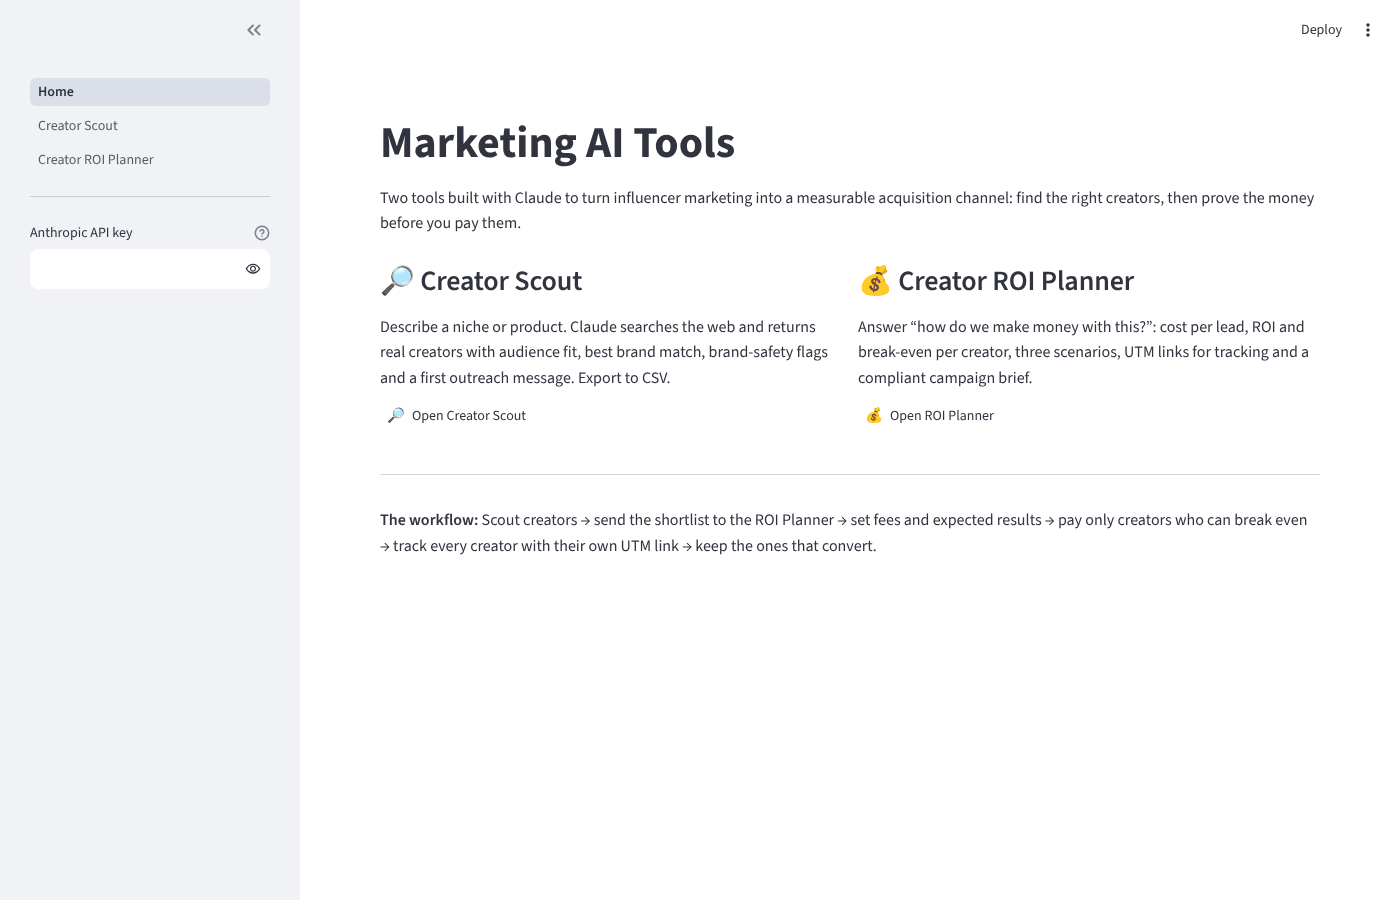
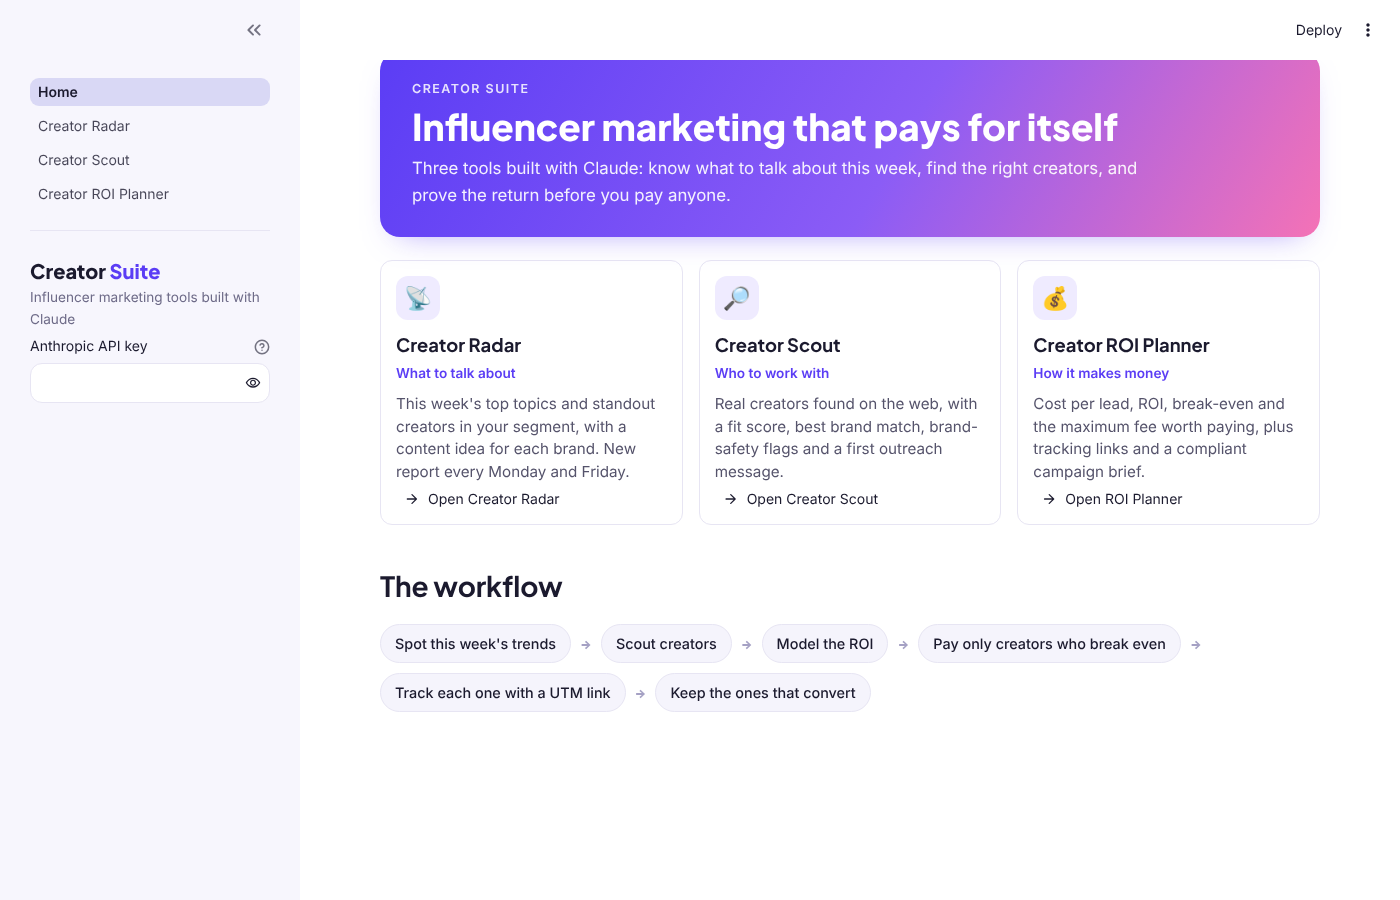
New look and consistent Creator names
Rename Trend Radar to Creator Radar and order the pages as the workflow
runs: Radar, Scout, ROI Planner. Add a theme (colors, fonts), a gradient
header on every page, cards on the home page and styled metrics.

Claude-Session: https://claude.ai/code/session_01GsFj1HvsasgLCrXsYE9AYZ

diff --git a/core/ui.py b/core/ui.py
@@ -1,0 +1,75 @@
+"""Shared look: page setup, header banner, cards and sidebar."""
+
+import streamlit as st
+
+from core.llm import api_key_sidebar
+
+CSS = """
+<style>
+.block-container {padding-top: 3.6rem; max-width: 1180px;}
+.hero {
+  background: linear-gradient(120deg, #5B3DF5 0%, #8B5CF6 55%, #F472B6 100%);
+  border-radius: 20px; padding: 28px 32px; margin-bottom: 1.4rem; color: #fff;
+  box-shadow: 0 12px 32px -18px rgba(91, 61, 245, .55);
+}
+.hero .eyebrow {font-size: .78rem; font-weight: 600; letter-spacing: .12em; text-transform: uppercase; opacity: .85;}
+.hero .title {font-family: "Plus Jakarta Sans", sans-serif; font-size: 2.3rem; font-weight: 800; line-height: 1.15; margin: 6px 0 8px;}
+.hero .subtitle {font-size: 1.05rem; opacity: .92; max-width: 760px; margin: 0;}
+.card-icon {
+  width: 44px; height: 44px; border-radius: 12px; display: flex; align-items: center; justify-content: center;
+  font-size: 1.4rem; background: #EFEBFF; margin-bottom: 10px;
+}
+.card-title {font-family: "Plus Jakarta Sans", sans-serif; font-weight: 700; font-size: 1.15rem; margin-bottom: 4px;}
+.card-tag {color: #5B3DF5; font-weight: 600; font-size: .85rem; margin-bottom: 8px;}
+.card-text {color: #55536B; font-size: .95rem; line-height: 1.5; min-height: 96px;}
+.steps {display: flex; gap: 10px; flex-wrap: wrap; align-items: center; margin-top: 6px;}
+.step {background: #F5F4FC; border: 1px solid #E7E5F3; border-radius: 999px; padding: 7px 14px; font-size: .9rem; font-weight: 500;}
+.arrow {color: #A5A1C4; font-weight: 700;}
+[data-testid="stMetric"] {
+  background: #F5F4FC; border: 1px solid #E7E5F3; border-radius: 14px; padding: 14px 18px; min-height: 128px;
+}
+[data-testid="stMetricValue"] {font-family: "Plus Jakarta Sans", sans-serif; font-weight: 800;}
+.brand {font-family: "Plus Jakarta Sans", sans-serif; font-weight: 800; font-size: 1.25rem; color: #1B1A2E;}
+.brand span {color: #5B3DF5;}
+.brand-sub {color: #6E6B88; font-size: .85rem; margin-bottom: 4px;}
+</style>
+"""
+
+
+def setup(page_title: str, icon: str) -> None:
+    """Call first on every page."""
+    st.set_page_config(page_title=f"{page_title} · Creator Suite", page_icon=icon, layout="wide")
+    st.markdown(CSS, unsafe_allow_html=True)
+    st.sidebar.markdown(
+        '<div class="brand">Creator <span>Suite</span></div>'
+        '<div class="brand-sub">Influencer marketing tools built with Claude</div>',
+        unsafe_allow_html=True,
+    )
+    api_key_sidebar()
+
+
+def header(eyebrow: str, title: str, subtitle: str) -> None:
+    st.markdown(
+        f'<div class="hero"><div class="eyebrow">{eyebrow}</div>'
+        f'<div class="title">{title}</div><p class="subtitle">{subtitle}</p></div>',
+        unsafe_allow_html=True,
+    )
+
+
+def card(icon: str, title: str, tag: str, text: str, page: str, link_label: str) -> None:
+    with st.container(border=True):
+        st.markdown(
+            f'<div class="card-icon">{icon}</div><div class="card-title">{title}</div>'
+            f'<div class="card-tag">{tag}</div><div class="card-text">{text}</div>',
+            unsafe_allow_html=True,
+        )
+        st.page_link(page, label=link_label, icon=":material/arrow_forward:")
+
+
+def steps(items: list[str]) -> None:
+    parts = []
+    for i, item in enumerate(items):
+        if i:
+            parts.append('<span class="arrow">→</span>')
+        parts.append(f'<span class="step">{item}</span>')
+    st.markdown(f'<div class="steps">{"".join(parts)}</div>', unsafe_allow_html=True)

diff --git a/Home.py b/Home.py
@@ -1,42 +1,56 @@
 import streamlit as st
 
-from core.llm import api_key_sidebar
+from core.ui import card, header, setup, steps
 
-st.set_page_config(page_title="Marketing AI Tools", page_icon="📣", layout="wide")
-api_key_sidebar()
-
-st.title("Marketing AI Tools")
-st.write(
-    "Three tools built with Claude to turn influencer marketing into a measurable acquisition channel: "
-    "know what's trending, find the right creators, then prove the money before you pay them."
+setup("Home", "📣")
+header(
+    "Creator Suite",
+    "Influencer marketing that pays for itself",
+    "Three tools built with Claude: know what to talk about this week, find the right creators, "
+    "and prove the return before you pay anyone.",
 )
 
-col0, col1, col2 = st.columns(3)
-with col0:
-    st.subheader("📡 Trend Radar")
-    st.write(
-        "What's getting attention in your segment this week: topics, standout creators and posts, "
-        "and a content idea for each brand. A new report every Monday and Friday."
-    )
-    st.page_link("pages/3_Trend_Radar.py", label="Open Trend Radar", icon="📡")
+col1, col2, col3 = st.columns(3)
 with col1:
-    st.subheader("🔎 Creator Scout")
-    st.write(
-        "Describe a niche or product. Claude searches the web and returns real creators with audience fit, "
-        "best brand match, brand-safety flags and a first outreach message. Export to CSV."
+    card(
+        "📡",
+        "Creator Radar",
+        "What to talk about",
+        "This week's top topics and standout creators in your segment, with a content idea for each brand. "
+        "New report every Monday and Friday.",
+        "pages/1_Creator_Radar.py",
+        "Open Creator Radar",
     )
-    st.page_link("pages/1_Creator_Scout.py", label="Open Creator Scout", icon="🔎")
 with col2:
-    st.subheader("💰 Creator ROI Planner")
-    st.write(
-        "Answer “how do we make money with this?”: cost per lead, ROI and break-even per creator, "
-        "three scenarios, UTM links for tracking and a compliant campaign brief."
+    card(
+        "🔎",
+        "Creator Scout",
+        "Who to work with",
+        "Real creators found on the web, with a fit score, best brand match, brand-safety flags "
+        "and a first outreach message.",
+        "pages/2_Creator_Scout.py",
+        "Open Creator Scout",
     )
-    st.page_link("pages/2_Creator_ROI_Planner.py", label="Open ROI Planner", icon="💰")
+with col3:
+    card(
+        "💰",
+        "Creator ROI Planner",
+        "How it makes money",
+        "Cost per lead, ROI, break-even and the maximum fee worth paying, plus tracking links "
+        "and a compliant campaign brief.",
+        "pages/3_Creator_ROI_Planner.py",
+        "Open ROI Planner",
+    )
 
-st.divider()
-st.markdown(
-    "**The workflow:** Spot this week's trends → Scout creators → send the shortlist to the ROI Planner → set fees and expected results → "
-    "pay only creators who can break even → track every creator with their own UTM link → "
-    "keep the ones that convert."
+st.write("")
+st.subheader("The workflow")
+steps(
+    [
+        "Spot this week's trends",
+        "Scout creators",
+        "Model the ROI",
+        "Pay only creators who break even",
+        "Track each one with a UTM link",
+        "Keep the ones that convert",
+    ]
 )

diff --git a/pages/2_Creator_Scout.py b/pages/2_Creator_Scout.py
@@ -1,14 +1,17 @@
 import pandas as pd
 import streamlit as st
 
-from core.llm import ClaudeError, api_key_sidebar, get_client
+from core.llm import ClaudeError, get_client
 from core.scout import build_research_prompt, research, structure
+from core.ui import header, setup
 
-st.set_page_config(page_title="Creator Scout", page_icon="🔎", layout="wide")
-api_key_sidebar()
-
-st.title("🔎 Creator Scout")
-st.caption("Give it a niche or product. Claude searches the web and returns candidate creators.")
+setup("Creator Scout", "🔎")
+header(
+    "🔎 Creator Scout · Who to work with",
+    "Find the right creators in minutes",
+    "Describe a niche or product. Claude searches the web and returns real creators with a fit score, "
+    "best brand match, brand-safety flags and a first message.",
+)
 
 DEFAULT_BRANDS = """Fast Loan Advance: fast help for unexpected expenses. Direct, upbeat.
 Fast Loan Direct: simple and transparent, compare offers and costs. Clear, no jargon.
@@ -89,6 +92,6 @@ if result:
     )
     if c2.button("Send shortlist to ROI Planner →"):
         st.session_state["roi_creators"] = df[["name", "handle", "platform", "followers"]].to_dict("records")
-        st.switch_page("pages/2_Creator_ROI_Planner.py")
+        st.switch_page("pages/3_Creator_ROI_Planner.py")
 
     st.caption("Follower counts come from public sources and can be out of date. Check each profile before outreach.")

diff --git a/pages/3_Creator_ROI_Planner.py b/pages/3_Creator_ROI_Planner.py
@@ -2,14 +2,17 @@ import pandas as pd
 import streamlit as st
 
 from core.brief import write_brief
-from core.llm import ClaudeError, api_key_sidebar, get_client
+from core.llm import ClaudeError, get_client
 from core.roi import Plan, project, scenarios, utm_link
+from core.ui import header, setup
 
-st.set_page_config(page_title="Creator ROI Planner", page_icon="💰", layout="wide")
-api_key_sidebar()
-
-st.title("💰 Creator ROI Planner")
-st.caption("How does an influencer campaign make money? Model it before you pay anyone.")
+setup("Creator ROI Planner", "💰")
+header(
+    "💰 Creator ROI Planner · How it makes money",
+    "Know what a creator is worth before you pay",
+    "Every sponsored post is a small lead-gen campaign: views → clicks → leads → revenue. "
+    "Model it, set the maximum fee, track every creator.",
+)
 
 
 def money(x):
@@ -23,7 +26,6 @@ tab_one, tab_many, tab_links, tab_brief = st.tabs(
 )
 
 with tab_one:
-    st.markdown("Every post is a small lead-gen campaign: **views → clicks → leads → revenue**.")
     c1, c2, c3, c4, c5 = st.columns(5)
     fee = c1.number_input("Creator fee ($)", min_value=0.0, value=1500.0, step=100.0)
     views = c2.number_input("Expected views", min_value=0.0, value=80000.0, step=5000.0)

diff --git a/core/radar.py b/core/radar.py
@@ -1,4 +1,4 @@
-"""Trend Radar: what's working in a social media segment this week, with content ideas.
+"""Creator Radar: what's working in a social media segment this week, with content ideas.
 
 Runs from the Streamlit page on demand, or from the command line on a schedule:
     python -m core.radar --segment "personal finance" --out reports
@@ -114,7 +114,7 @@ def structure(client: anthropic.Anthropic, notes: str) -> RadarReport:
 
 
 def to_markdown(report: RadarReport, segment: str, today: dt.date) -> str:
-    lines = [f"# Trend Radar: {segment}", "", f"_Week of {today.isoformat()}_", "", f"**{report.headline}**", ""]
+    lines = [f"# Creator Radar: {segment}", "", f"_Week of {today.isoformat()}_", "", f"**{report.headline}**", ""]
     for i, t in enumerate(report.trends, 1):
         lines += [f"## {i}. {t.topic}", "", f"**Why now:** {t.why_now}", "", f"**Signal:** {t.signal}", ""]
         for e in t.examples:

diff --git a/pages/1_Creator_Radar.py b/pages/1_Creator_Radar.py
@@ -2,16 +2,16 @@ from pathlib import Path
 
 import streamlit as st
 
-from core.llm import api_key_sidebar, get_client
+from core.llm import get_client
 from core.radar import DEFAULT_BRANDS, build_prompt, research, structure, to_markdown, today
+from core.ui import header, setup
 
-st.set_page_config(page_title="Trend Radar", page_icon="📡", layout="wide")
-api_key_sidebar()
-
-st.title("📡 Trend Radar")
-st.caption(
-    "What's getting attention in a segment this week: topics, standout creators and posts, "
-    "and a content idea for each. Runs automatically every Monday and Friday."
+setup("Creator Radar", "📡")
+header(
+    "📡 Creator Radar · What to talk about",
+    "This week's trends, every Monday and Friday",
+    "The topics, creators and formats getting attention in your segment right now, "
+    "with a content idea for each brand.",
 )
 
 REPORTS = Path(__file__).parent.parent / "reports"

diff --git a/tests/test_pages.py b/tests/test_pages.py
@@ -9,7 +9,7 @@ from core.scout import Creator, ScoutResult
 
 
 def test_home_and_roi_render():
-    for page in ["Home.py", "pages/2_Creator_ROI_Planner.py", "pages/3_Trend_Radar.py"]:
+    for page in ["Home.py", "pages/3_Creator_ROI_Planner.py", "pages/1_Creator_Radar.py"]:
         at = AppTest.from_file("../" + page, default_timeout=30).run()
         assert not at.exception, at.exception
 
@@ -51,7 +51,7 @@ def test_scout_flow():
         )
     )
     with patch("anthropic.Anthropic", return_value=fake):
-        at = AppTest.from_file("../pages/1_Creator_Scout.py", default_timeout=30)
+        at = AppTest.from_file("../pages/2_Creator_Scout.py", default_timeout=30)
         at.session_state["api_key"] = "test"
         at.run()
         at.button[0].click().run()

diff --git a/tests/test_radar.py b/tests/test_radar.py
@@ -21,7 +21,7 @@ def test_to_markdown_lists_trends_and_sources():
         sources_note="Media coverage of TikTok.",
     )
     md = to_markdown(report, "personal finance", dt.date(2026, 10, 26))
-    assert "# Trend Radar: personal finance" in md
+    assert "# Creator Radar: personal finance" in md
     assert "## 1. Cash stuffing" in md
     assert "[source](https://example.com/a)" in md
     assert "Caution" not in md

diff --git a/README.md b/README.md
@@ -1,4 +1,4 @@
-# Marketing AI Tools
+# Creator Suite: Marketing AI Tools
 
 AI-powered marketing tools built with Claude: creator discovery and influencer ROI planning.
 
@@ -6,7 +6,7 @@ Influencer marketing usually stalls on three questions: **what should we talk ab
 
 ![Home](docs/home.png)
 
-## 📡 Trend Radar
+## 📡 Creator Radar
 
 What's getting attention in a segment this week on Instagram and TikTok: the top topics, why they're trending now, standout creators and posts (with sources and engagement when reported), the formats that are working, and a content idea for each one that fits a regulated financial brand.
 
@@ -70,9 +70,9 @@ Web search has to be enabled for your organization in the [Claude Console](https
 
 ```
 Home.py                         landing page
-pages/1_Creator_Scout.py        creator discovery UI
-pages/2_Creator_ROI_Planner.py  ROI, scenarios, UTM links, brief
-pages/3_Trend_Radar.py          weekly trends and content ideas
+pages/1_Creator_Radar.py        weekly trends and content ideas
+pages/2_Creator_Scout.py        creator discovery UI
+pages/3_Creator_ROI_Planner.py  ROI, scenarios, UTM links, brief
 core/scout.py                   web research + structured extraction
 core/roi.py                     ROI math and UTM builder (pure functions)
 core/brief.py                   campaign brief prompt
